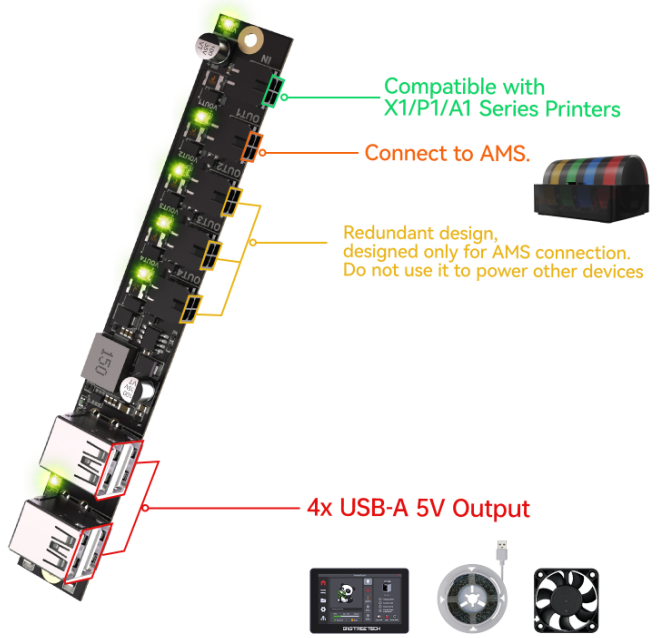
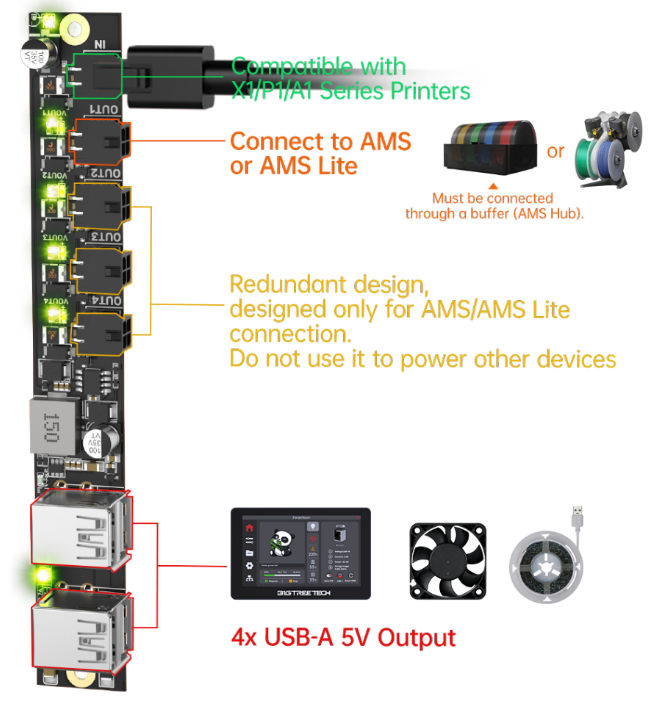
modify Panda Branch

diff --git a/docs/PandaBranch.md b/docs/PandaBranch.md
@@ -4,7 +4,7 @@
 
 ## **Product Profile**
 
-The BIGTREETECH Panda Branch V1.0 is a power expansion board designed for X1/P1/A1 series printers. It features four 5V outputs, which can be used to power devices such as the Panda Touch, USB fans, and USB light strips. Additionally, it includes the MX3.0 2x2 Pin interface for powering the AMS.
+The BIGTREETECH Panda Branch V1.0 is a power expansion board designed for X1/P1/A1 series printers. It features four 5V outputs, which can be used to power devices such as the Panda Touch, USB fans, and USB light strips. Additionally, it includes the MX3.0 2x2 Pin interface for powering the AMS/AMS Lite.
 
 ## **Features Highlights**
 
